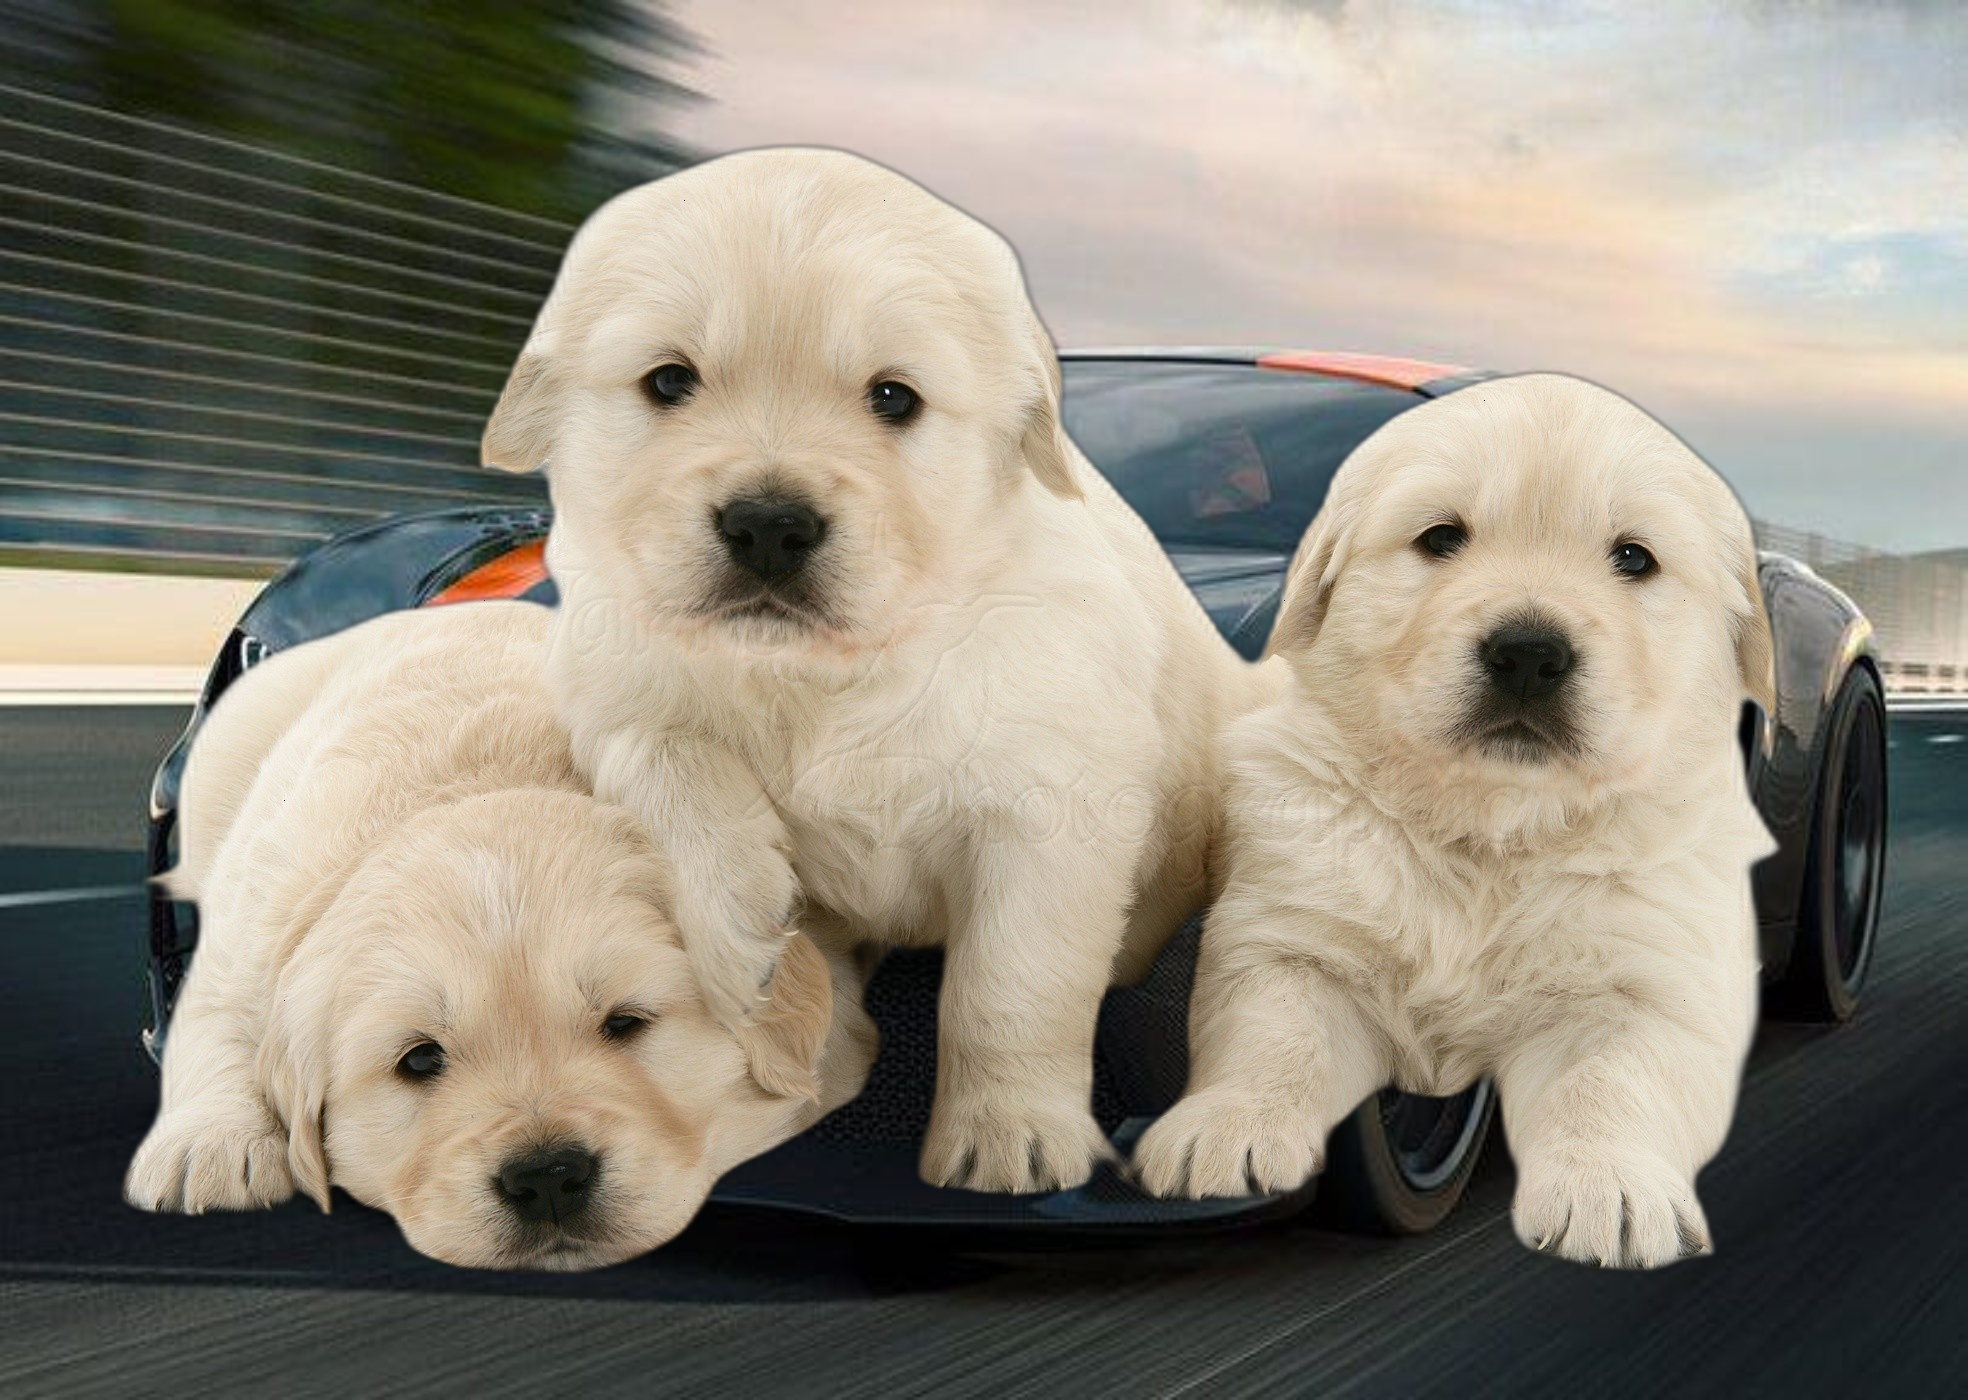
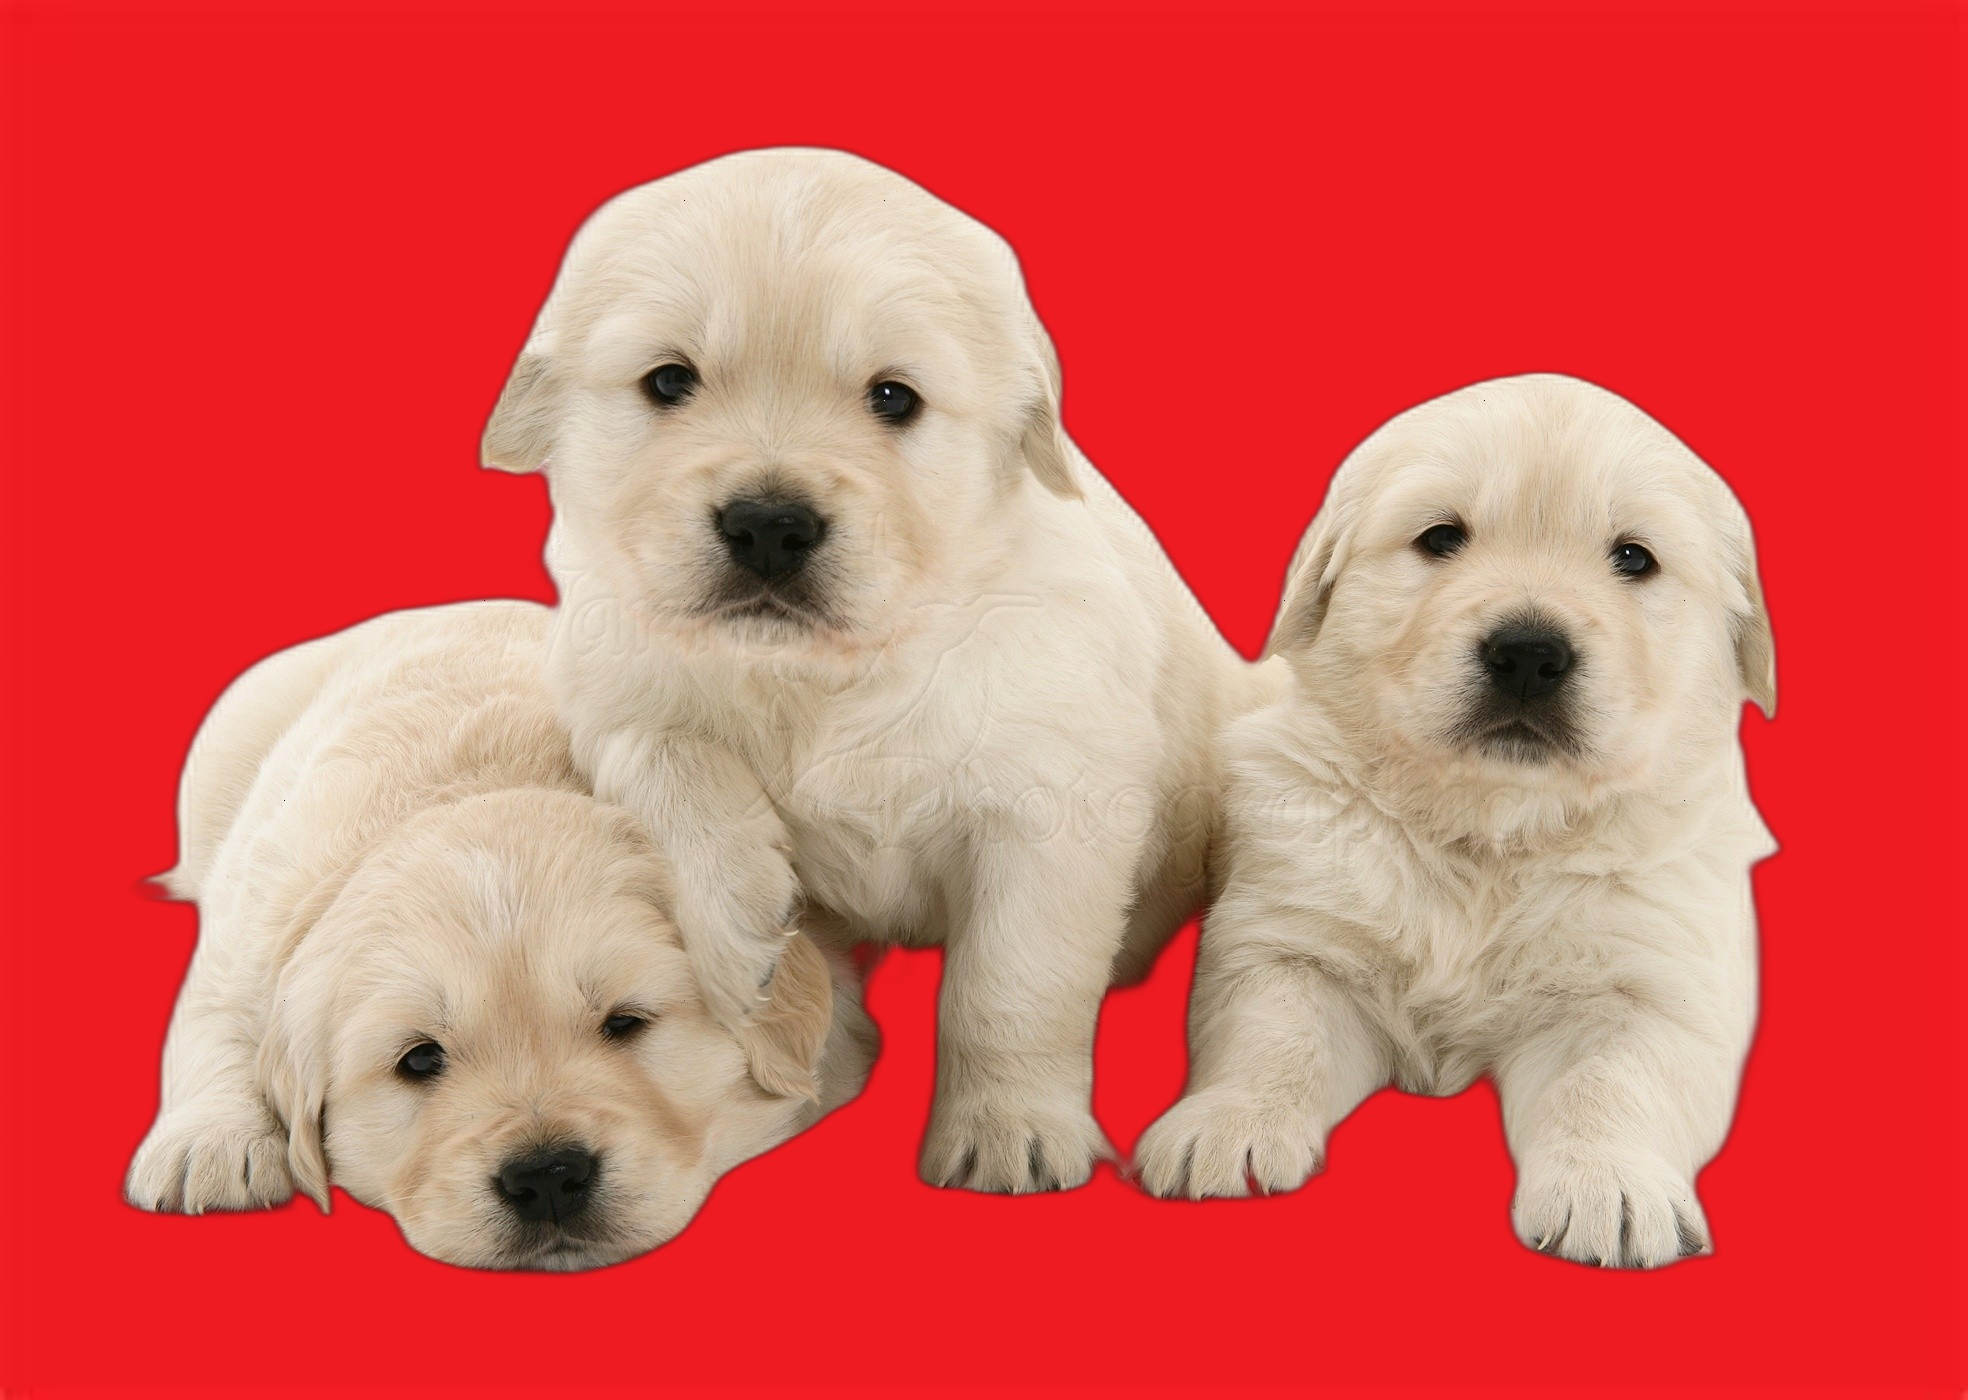
updat

diff --git a/myproject/background/views.py b/myproject/background/views.py
@@ -108,24 +108,24 @@ def process_image(request):
         img = cv2.imread(fs.path(image_path), cv2.IMREAD_UNCHANGED)
         new_bg = cv2.imread(fs.path(background_path), cv2.IMREAD_UNCHANGED)
 
-        # Remove the background using rembg
+        # Remove 
         no_bg = remove(img)
 
         # Ensure new_bg has an alpha channel
         if new_bg.shape[2] == 3:
             new_bg = cv2.cvtColor(new_bg, cv2.COLOR_BGR2BGRA)
 
-        # Resize the new background image to match the original image size
+        # Resize
         new_bg = cv2.resize(new_bg, (img.shape[1], img.shape[0]))
 
-        # Combine the foreground (no_bg) with the new background
+        # Combine the foreground  with the new background
         alpha_s = no_bg[:, :, 3] / 255.0
         alpha_l = 1.0 - alpha_s
 
         for c in range(0, 3):
             new_bg[:, :, c] = (alpha_s * no_bg[:, :, c] + alpha_l * new_bg[:, :, c])
 
-        # Save the resulting image
+        # Save 
         result_path = fs.path('result.jpg')
         cv2.imwrite(result_path, new_bg)
 
